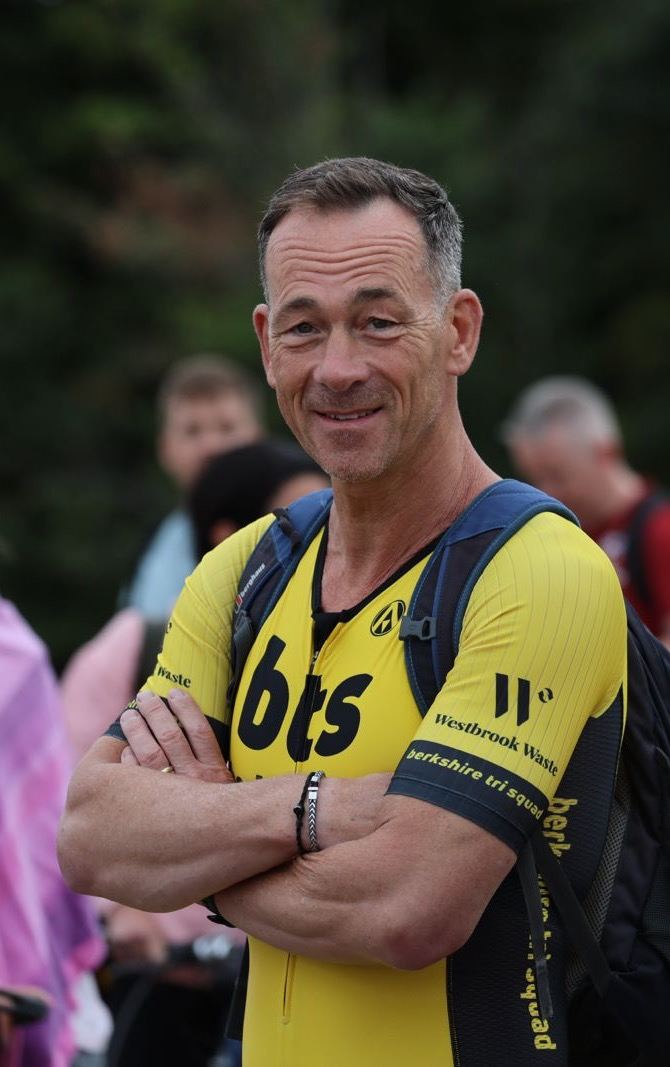
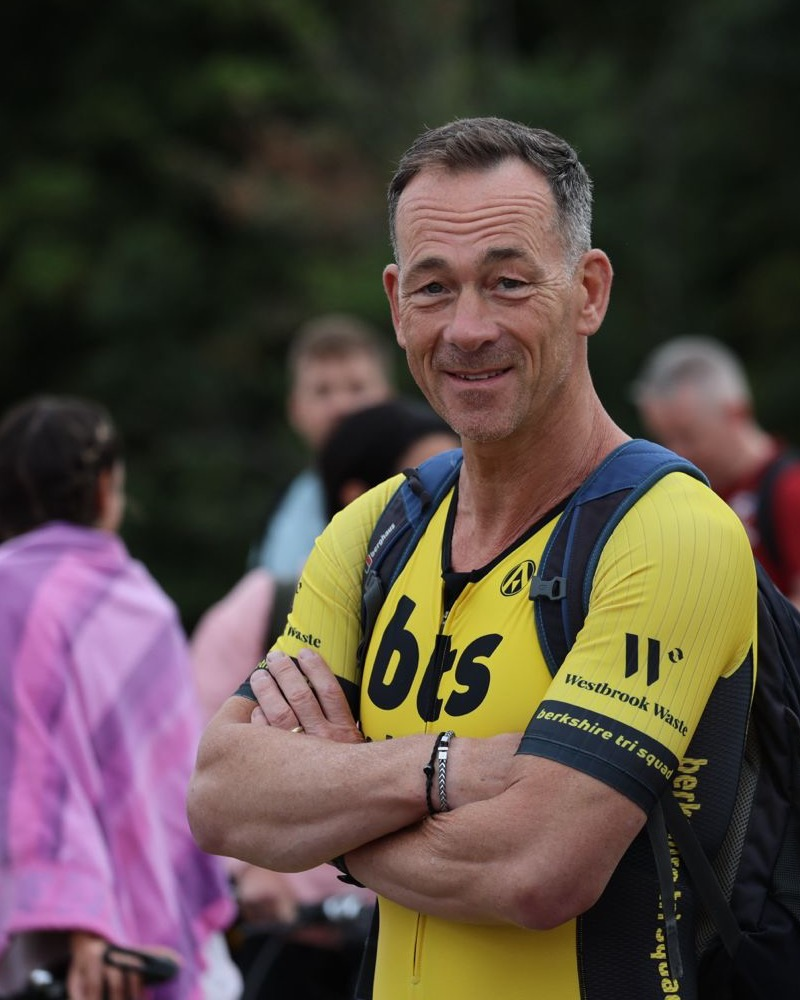
Swap About photo for the race day candid, headshot circle in What I do
The candid is the more personal fit for About Nic, recropped to 4:5
at full resolution. The professional headshot becomes a tight face
crop shown as a small circle beside the What I do heading.

diff --git a/css/style.css b/css/style.css
@@ -339,6 +339,16 @@ a { color: inherit; }
 
 .section-head { max-width: 34ch; margin-bottom: clamp(26px, 3.2vw, 42px); }
 .section-head p { margin-top: 14px; color: var(--ink-mute); font-size: var(--text-lead); line-height: 1.5; }
+.section-head-person { display: flex; align-items: center; gap: clamp(18px, 2.4vw, 26px); max-width: 44ch; }
+.head-portrait {
+  width: clamp(74px, 8vw, 96px);
+  height: clamp(74px, 8vw, 96px);
+  flex-shrink: 0;
+  border-radius: var(--radius-pill);
+  object-fit: cover;
+  box-shadow: var(--shadow-soft);
+  filter: saturate(0.92) contrast(1.02);
+}
 
 /* ---------- Pull quote (leads the About section) ---------- */
 
@@ -462,30 +472,8 @@ a { color: inherit; }
 /* ---------- About ---------- */
 
 .about-grid { display: grid; grid-template-columns: 5fr 7fr; gap: clamp(36px, 6vw, 72px); align-items: center; }
-.about-photos { position: relative; padding-bottom: clamp(48px, 6vw, 68px); }
 .about-photo { border-radius: var(--radius-lg); overflow: hidden; box-shadow: var(--shadow-soft); aspect-ratio: 4 / 5; background: var(--paper-2); }
 .about-photo img { width: 100%; height: 100%; object-fit: cover; filter: saturate(0.92) contrast(1.02); }
-.about-snapshot {
-  position: absolute;
-  right: clamp(-18px, -1.2vw, -10px);
-  bottom: 0;
-  width: min(48%, 210px);
-  padding: 8px 8px 10px;
-  background: var(--surface);
-  border-radius: var(--radius-sm);
-  box-shadow: var(--shadow-raise);
-  transform: rotate(-2.4deg);
-}
-.about-snapshot img {
-  display: block;
-  width: 100%;
-  aspect-ratio: 4 / 5;
-  object-fit: cover;
-  object-position: 50% 24%;
-  border-radius: calc(var(--radius-sm) - 4px);
-  filter: saturate(0.92) contrast(1.02);
-}
-.about-snapshot figcaption { margin-top: 8px; text-align: center; font-size: 0.8125rem; line-height: 1.35; color: var(--ink-mute); }
 .about-body h2 { margin-bottom: 24px; }
 .about-body p { color: var(--ink-mute); font-size: var(--text-body); }
 .about-body p + p { margin-top: 18px; }
@@ -598,7 +586,6 @@ body.js .reveal.visible { opacity: 1; transform: none; }
 @media (max-width: 900px) {
   .work-grid, .about-grid, .contact-grid { grid-template-columns: 1fr; }
   .about-grid { gap: 32px; }
-  .about-snapshot { right: 10px; width: min(44%, 190px); }
   .sticky-head { position: static; }
   .cred-row { grid-template-columns: repeat(2, 1fr); gap: 32px 24px; }
   .footer-grid { grid-template-columns: 1fr 1fr; }

diff --git a/index.html b/index.html
@@ -101,9 +101,12 @@
 
   <section class="services" id="services">
     <div class="wrap">
-      <div class="section-head reveal">
-        <h2>What I do</h2>
-        <p>Three strands of work, usually blended to fit the organisation rather than sold off a shelf.</p>
+      <div class="section-head section-head-person reveal">
+        <img class="head-portrait" src="assets/nic-face.jpg" alt="Nic Brocklebank" loading="lazy">
+        <div>
+          <h2>What I do</h2>
+          <p>Three strands of work, usually blended to fit the organisation rather than sold off a shelf.</p>
+        </div>
       </div>
 
       <div class="service-rows">
@@ -172,15 +175,9 @@
 
   <section class="about" id="about">
     <div class="wrap about-grid">
-      <div class="about-photos reveal">
-        <figure class="about-photo">
-          <img src="assets/nic.jpg" alt="Nic Brocklebank" loading="lazy">
-        </figure>
-        <figure class="about-snapshot">
-          <img src="assets/nic-tri.jpg" alt="Nic in Berkshire Tri Squad kit on race day" loading="lazy">
-          <figcaption>Race day with Berkshire Tri Squad</figcaption>
-        </figure>
-      </div>
+      <figure class="about-photo reveal">
+        <img src="assets/nic-tri.jpg" alt="Nic in Berkshire Tri Squad kit on race day" loading="lazy">
+      </figure>
       <div class="about-body reveal">
         <blockquote class="pull-quote about-quote">
           <p>&ldquo;Companies are actually living organisms, not machines. We keep bringing in mechanics, when what we need are gardeners.&rdquo;</p>

diff --git a/DESIGN.md b/DESIGN.md
@@ -72,11 +72,12 @@ Hand rolled in vanilla JS (`js/main.js`), no motion library, for speed and robus
   the muted palette. On theme (a greenhouse) and atmospheric.
 - **CTA band:** no photo. A hand drawn botanical SVG line on the forest panel, which is
   more distinctive and needs no asset.
-- **About:** `assets/nic.jpg`, the real photo of Nic, lightly graded to match. Overlapping
-  its bottom right corner, `assets/nic-tri.jpg`, a candid of Nic in Berkshire Tri Squad kit
-  (cropped from a wider race day shot), styled as a small white framed print with a slight
-  rotation and the caption inside the frame (`.about-snapshot`). It ties into the sport
-  paragraph and is the section's one deliberate grid break.
+- **About:** `assets/nic-tri.jpg`, a candid of Nic in Berkshire Tri Squad kit, cropped to
+  4 / 5 from a wider race day shot. Personal on purpose; it pairs with the "I started in
+  sport" opening and the sport paragraph.
+- **What I do:** `assets/nic-face.jpg`, a tight square face crop of the professional
+  headshot, shown as a small circle beside the section heading (`.head-portrait`) so a
+  face appears early in the page. The full headshot source is kept at `assets/nic.jpg`.
 - Swapping the hero for commissioned or generated **painterly garden art** later is a one
   line change to `.hero-media` in the CSS. Keep roughly the same wide, low light, muted
   look.